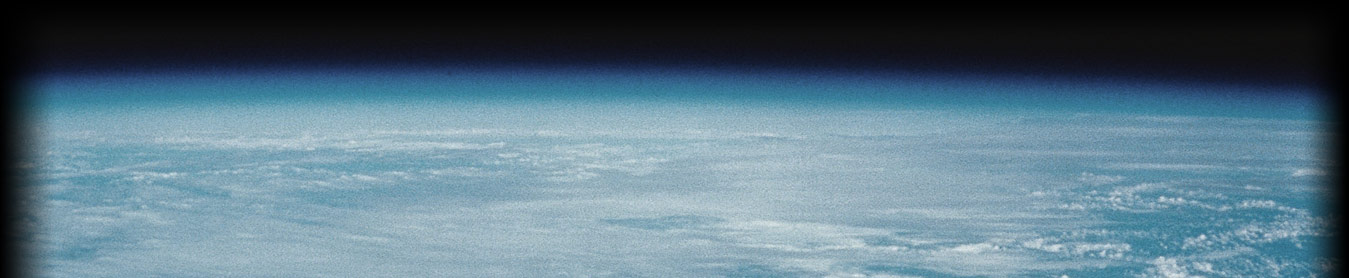
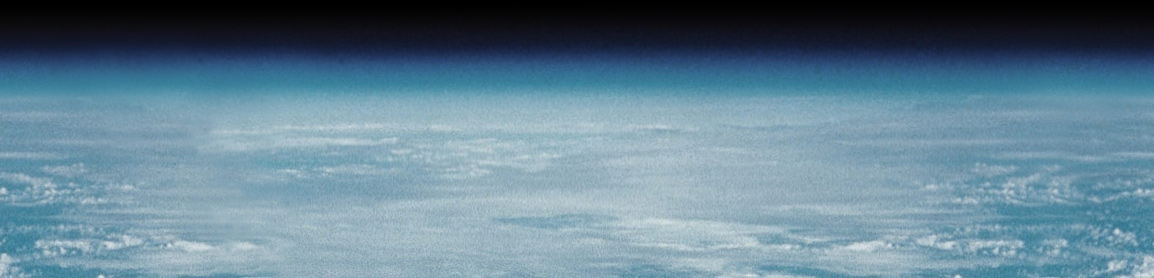
Added new seamless Earth background image

diff --git a/style.css b/style.css
@@ -20,7 +20,7 @@ body {
 div#backgroundwrap {
 	width: 100%;
 	height: 100%;
-	background: url('static/img/fsi-bg-body-bottom-fade.jpg') bottom center no-repeat;	
+	background: url('static/img/fsi-bg-body-bottom-fade.jpg') bottom center repeat-x;	
 	/*overflow: auto;*/
 }
 
